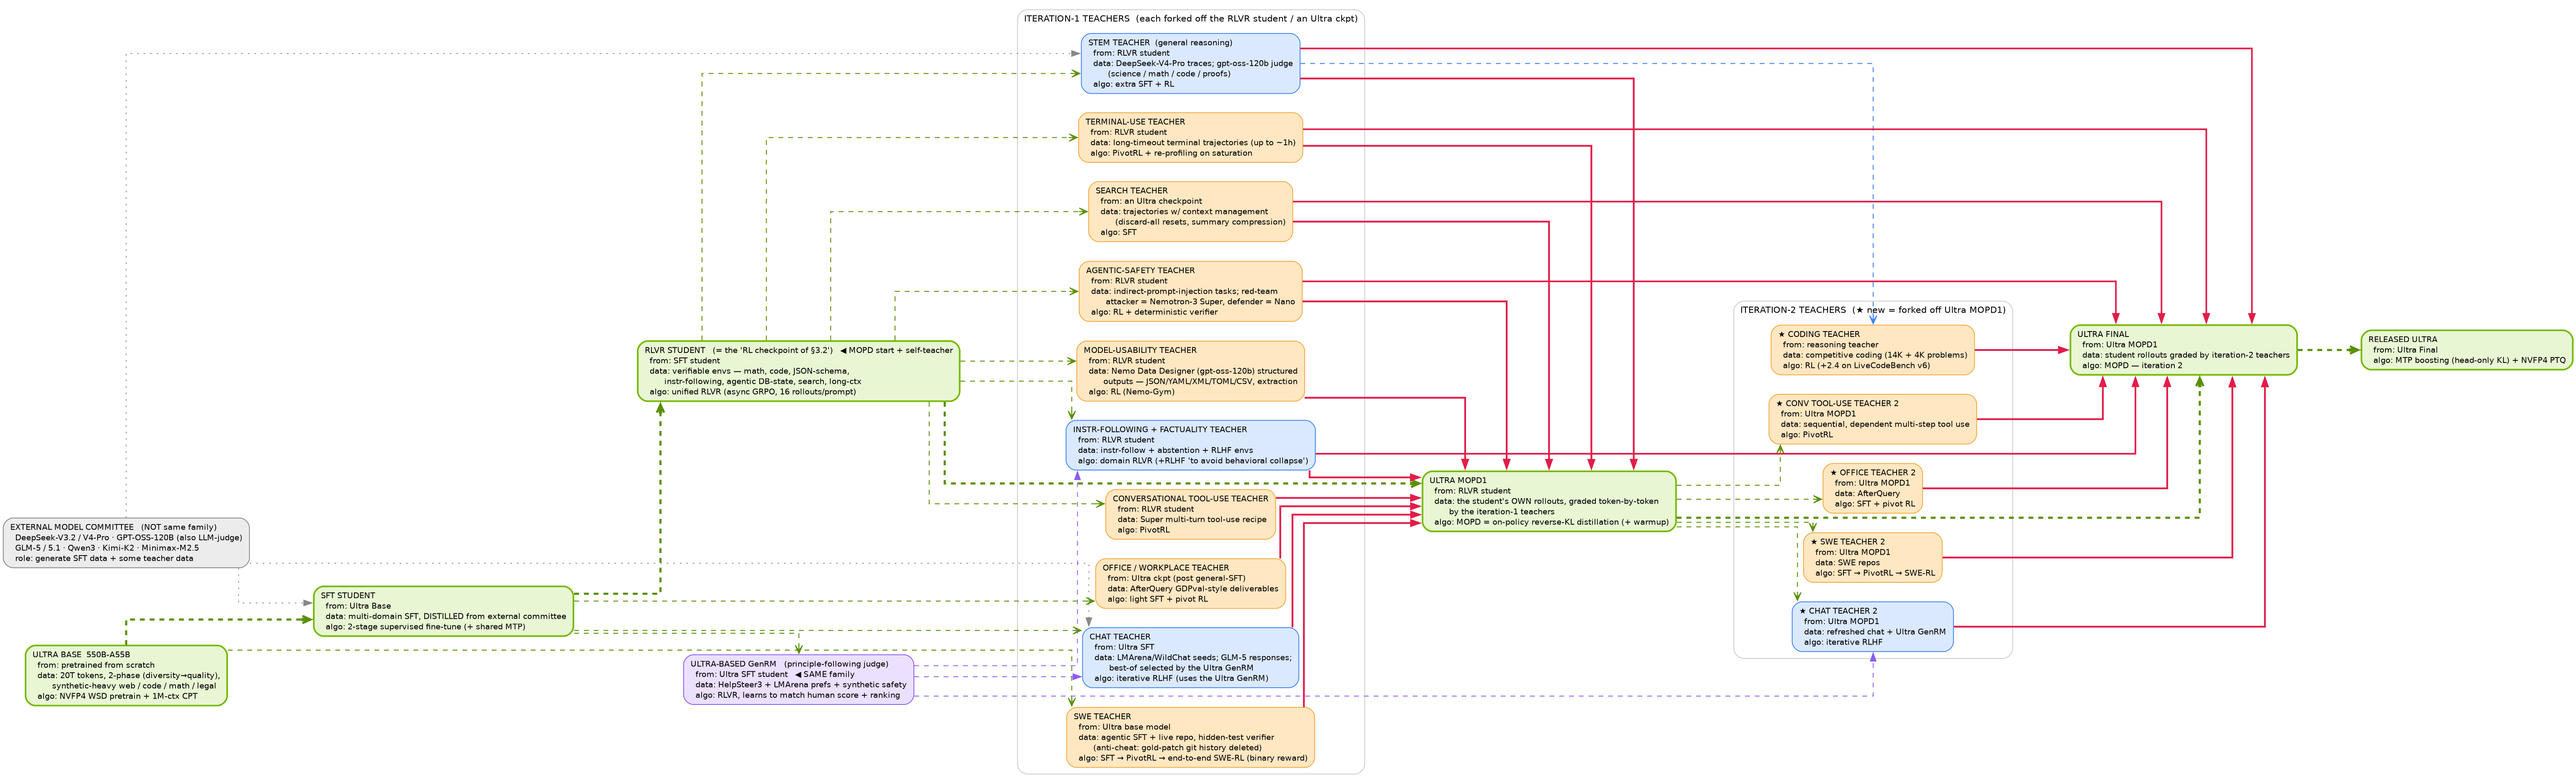
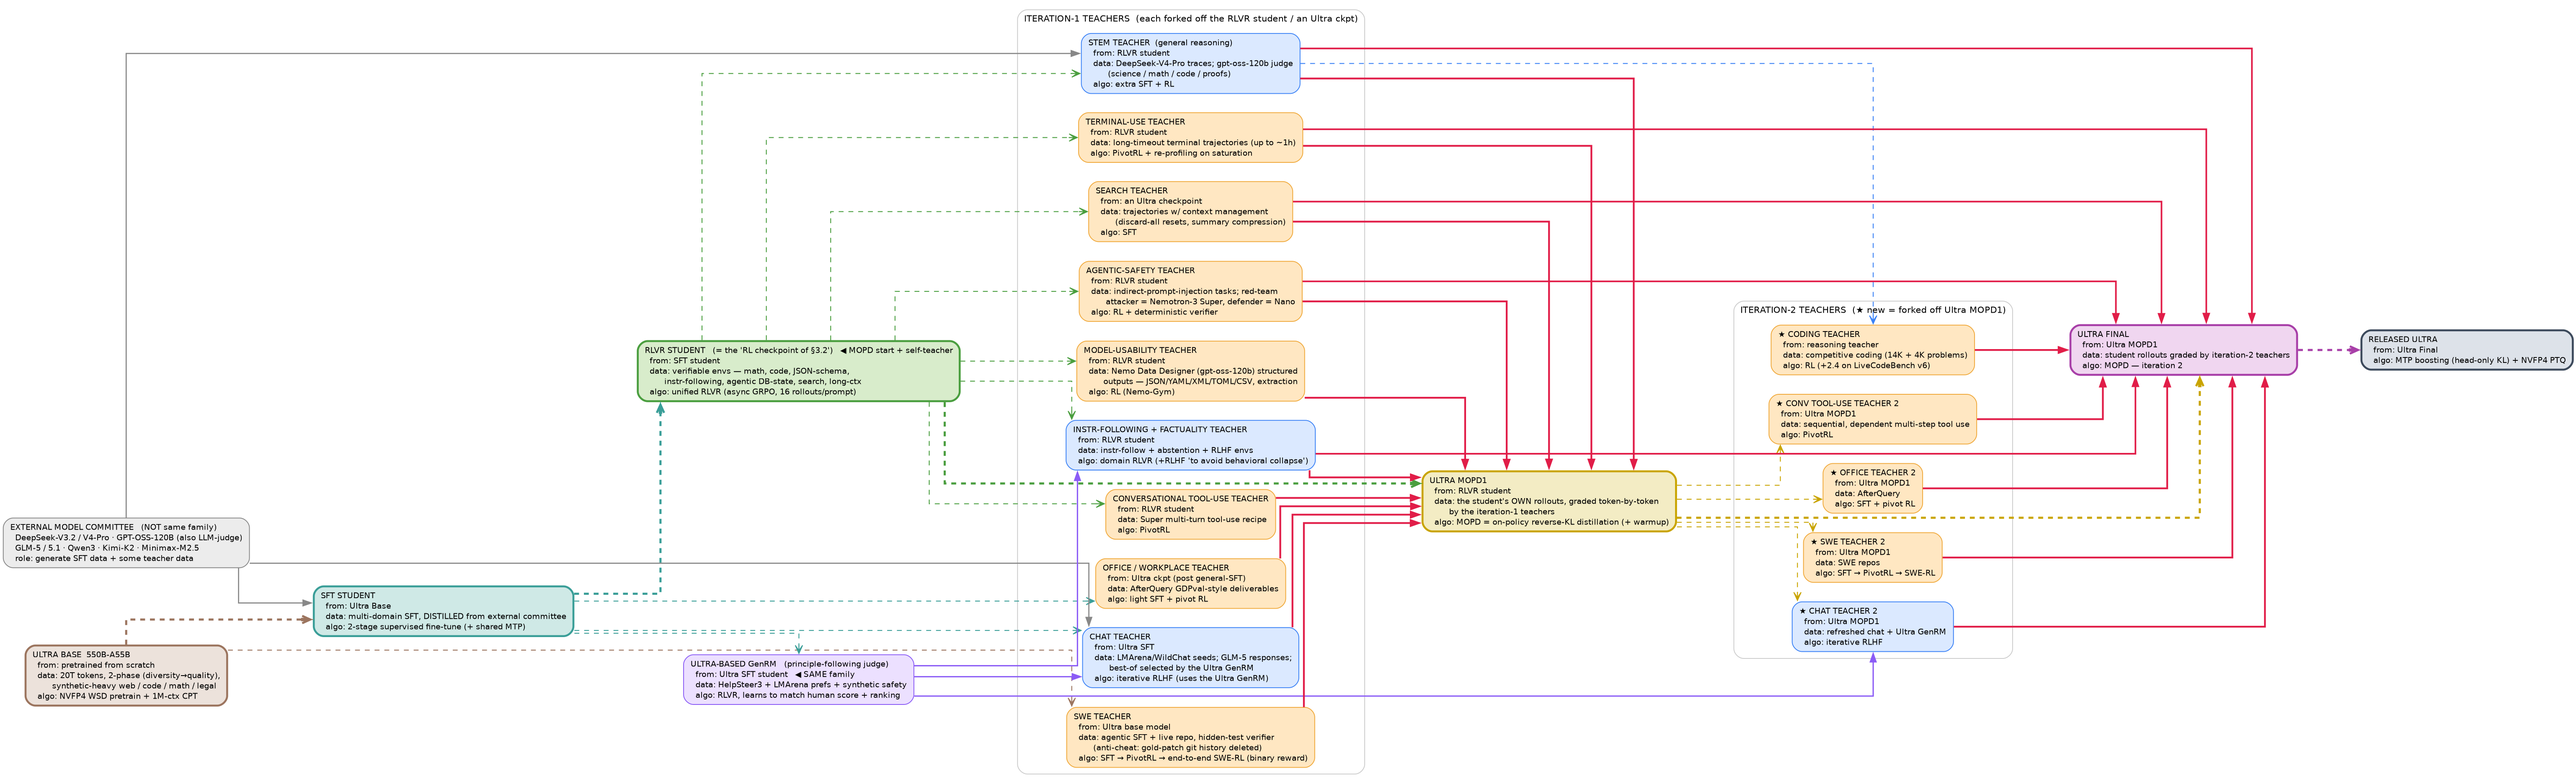
Per-checkpoint colours + lineage-coloured init arrows; solid reward/data arrows; shorter viewport
- each student checkpoint now has its own hue (Base brown, SFT teal, RLVR green,
  MOPD1 gold, Final grape, Released slate) instead of one shared green
- every 'initialized from' arrow is drawn in the colour of its SOURCE checkpoint,
  so a fork is traceable by hue; dashed is now used ONLY for init-from
- GenRM reward (purple) and external-data (grey) arrows are now solid, not
  dashed/dotted — leaving dashed exclusively for init-from
- viewport height 80vh -> 56vh and the detail panel scrolls into view on click,
  so the per-node description is visible without missing it
- legend rewritten to match

(Co)-Authored-By Claude (Opus) <noreply@anthropic.com>

diff --git a/index.html b/index.html
@@ -28,7 +28,7 @@
   .btn{cursor:pointer;border:1px solid #cfd6e0;background:#fff;border-radius:8px;padding:6px 12px;font-size:14px}
   .btn:hover{border-color:#76b900}
   .viewport{position:relative;overflow:hidden;border:1px solid #e2e6ec;background:#fff;
-    width:100vw;margin-left:calc(50% - 50vw);height:80vh;min-height:460px;cursor:grab;touch-action:none}
+    width:100vw;margin-left:calc(50% - 50vw);height:56vh;min-height:360px;cursor:grab;touch-action:none}
   .viewport.grabbing{cursor:grabbing}
   #vp svg{position:absolute;top:0;left:0;width:100%;height:100%;display:block;user-select:none}
   .gdim{opacity:.12;transition:opacity .12s}
@@ -89,24 +89,28 @@
   <h2>How to read the arrows</h2>
   <div class="panel">
     <div class="legend">
-      <span class="grp"><span class="ln" style="border-top:3px solid #e11d48"></span><b>MOPD distillation</b> (solid red) — a teacher grading the student's rollouts token-by-token, pulled into the student</span>
-      <span class="grp"><span class="ln" style="border-top:3px dashed #5a8f00"></span><b>initialized from</b> (dashed, coloured by the source) — weights forked from this checkpoint</span>
+      <span class="grp"><span class="ln" style="border-top:3px dashed #888"></span><b>initialized from</b> — the <b>only</b> dashed arrows. Weights forked; each arrow is painted in the <b>colour of its source checkpoint</b> (thick = the student backbone, thin = a teacher forked off a checkpoint), so you can trace any fork by its hue.</span>
     </div>
     <div class="legend">
-      <span class="grp">↳ thick dashed green = the <b>student backbone</b> (each checkpoint forks from the previous)</span>
-      <span class="grp">↳ thin dashed green = a <b>teacher forked off the student</b></span>
-      <span class="grp"><span class="ln" style="border-top:2px dashed #3b82f6"></span>dashed blue = forked off a <b>teacher</b> (coding ← reasoning)</span>
+      <span class="grp"><span class="ln" style="border-top:3px solid #e11d48"></span><b>MOPD distillation</b> (solid rose) — a teacher grading the student's rollouts token-by-token, pulled into the student</span>
+      <span class="grp"><span class="ln" style="border-top:2px solid #8b5cf6"></span><b>GenRM reward</b> (solid purple) — the Ultra GenRM scores a teacher's RLHF</span>
+      <span class="grp"><span class="ln" style="border-top:2px solid #888"></span><b>generates data</b> (solid grey) — out-of-family model</span>
+    </div>
+    <div class="legend" style="margin-top:6px">
+      <span class="grp"><b>student line</b> — each checkpoint its own colour:</span>
+      <span class="grp"><span class="sw" style="background:#ece2db;border:2px solid #9c755f"></span>Base</span>
+      <span class="grp"><span class="sw" style="background:#cfe9e6;border:2px solid #3a9e98"></span>SFT</span>
+      <span class="grp"><span class="sw" style="background:#d8eccb;border:2px solid #4a9e3f"></span>RLVR</span>
+      <span class="grp"><span class="sw" style="background:#f3ecc4;border:2px solid #c9a400"></span>MOPD1</span>
+      <span class="grp"><span class="sw" style="background:#f0d6f0;border:2px solid #a83fa8"></span>Final</span>
+      <span class="grp"><span class="sw" style="background:#dde2e9;border:2px solid #3d4a5c"></span>Released</span>
     </div>
     <div class="legend">
-      <span class="grp"><span class="ln" style="border-top:2px dashed #8b5cf6"></span><b>reward signal</b> — the Ultra GenRM judges a teacher's RLHF</span>
-      <span class="grp"><span class="ln" style="border-top:2px dotted #888"></span><b>generates data</b> — out-of-family model</span>
-    </div>
-    <div class="legend" style="margin-top:4px">
-      <span class="grp"><span class="sw" style="background:#cfeb9e"></span>student line (same family)</span>
-      <span class="grp"><span class="sw" style="background:#dbe9ff"></span>general teacher</span>
-      <span class="grp"><span class="sw" style="background:#ffe7c2"></span>agentic teacher</span>
-      <span class="grp"><span class="sw" style="background:#ece0ff"></span>Ultra GenRM (judge)</span>
-      <span class="grp"><span class="sw" style="background:#ececec"></span>external models</span>
+      <span class="grp"><b>and the helpers:</b></span>
+      <span class="grp"><span class="sw" style="background:#dbe9ff;border-color:#3b82f6"></span>general teacher</span>
+      <span class="grp"><span class="sw" style="background:#ffe7c2;border-color:#f0a93b"></span>agentic teacher</span>
+      <span class="grp"><span class="sw" style="background:#ece0ff;border-color:#8b5cf6"></span>Ultra GenRM (judge)</span>
+      <span class="grp"><span class="sw" style="background:#ececec;border-color:#888"></span>external models</span>
     </div>
   </div>
 
@@ -284,6 +288,7 @@ function selectNode(id){
   d.innerHTML='<div class="ndhead"><h3>'+info.t+'</h3><span class="pill">'+info.k+'</span></div>'
     +'<div>'+info.h+'</div>'
     +'<div class="links"><b>in ←</b> '+(ins.length?ins.join(', '):'—')+' &nbsp;·&nbsp; <b>out →</b> '+(outs.length?outs.join(', '):'—')+'</div>';
+  d.scrollIntoView({behavior:'smooth',block:'nearest'});
 }
 
 fetch('lineage.svg').then(r=>r.text()).then(txt=>{
